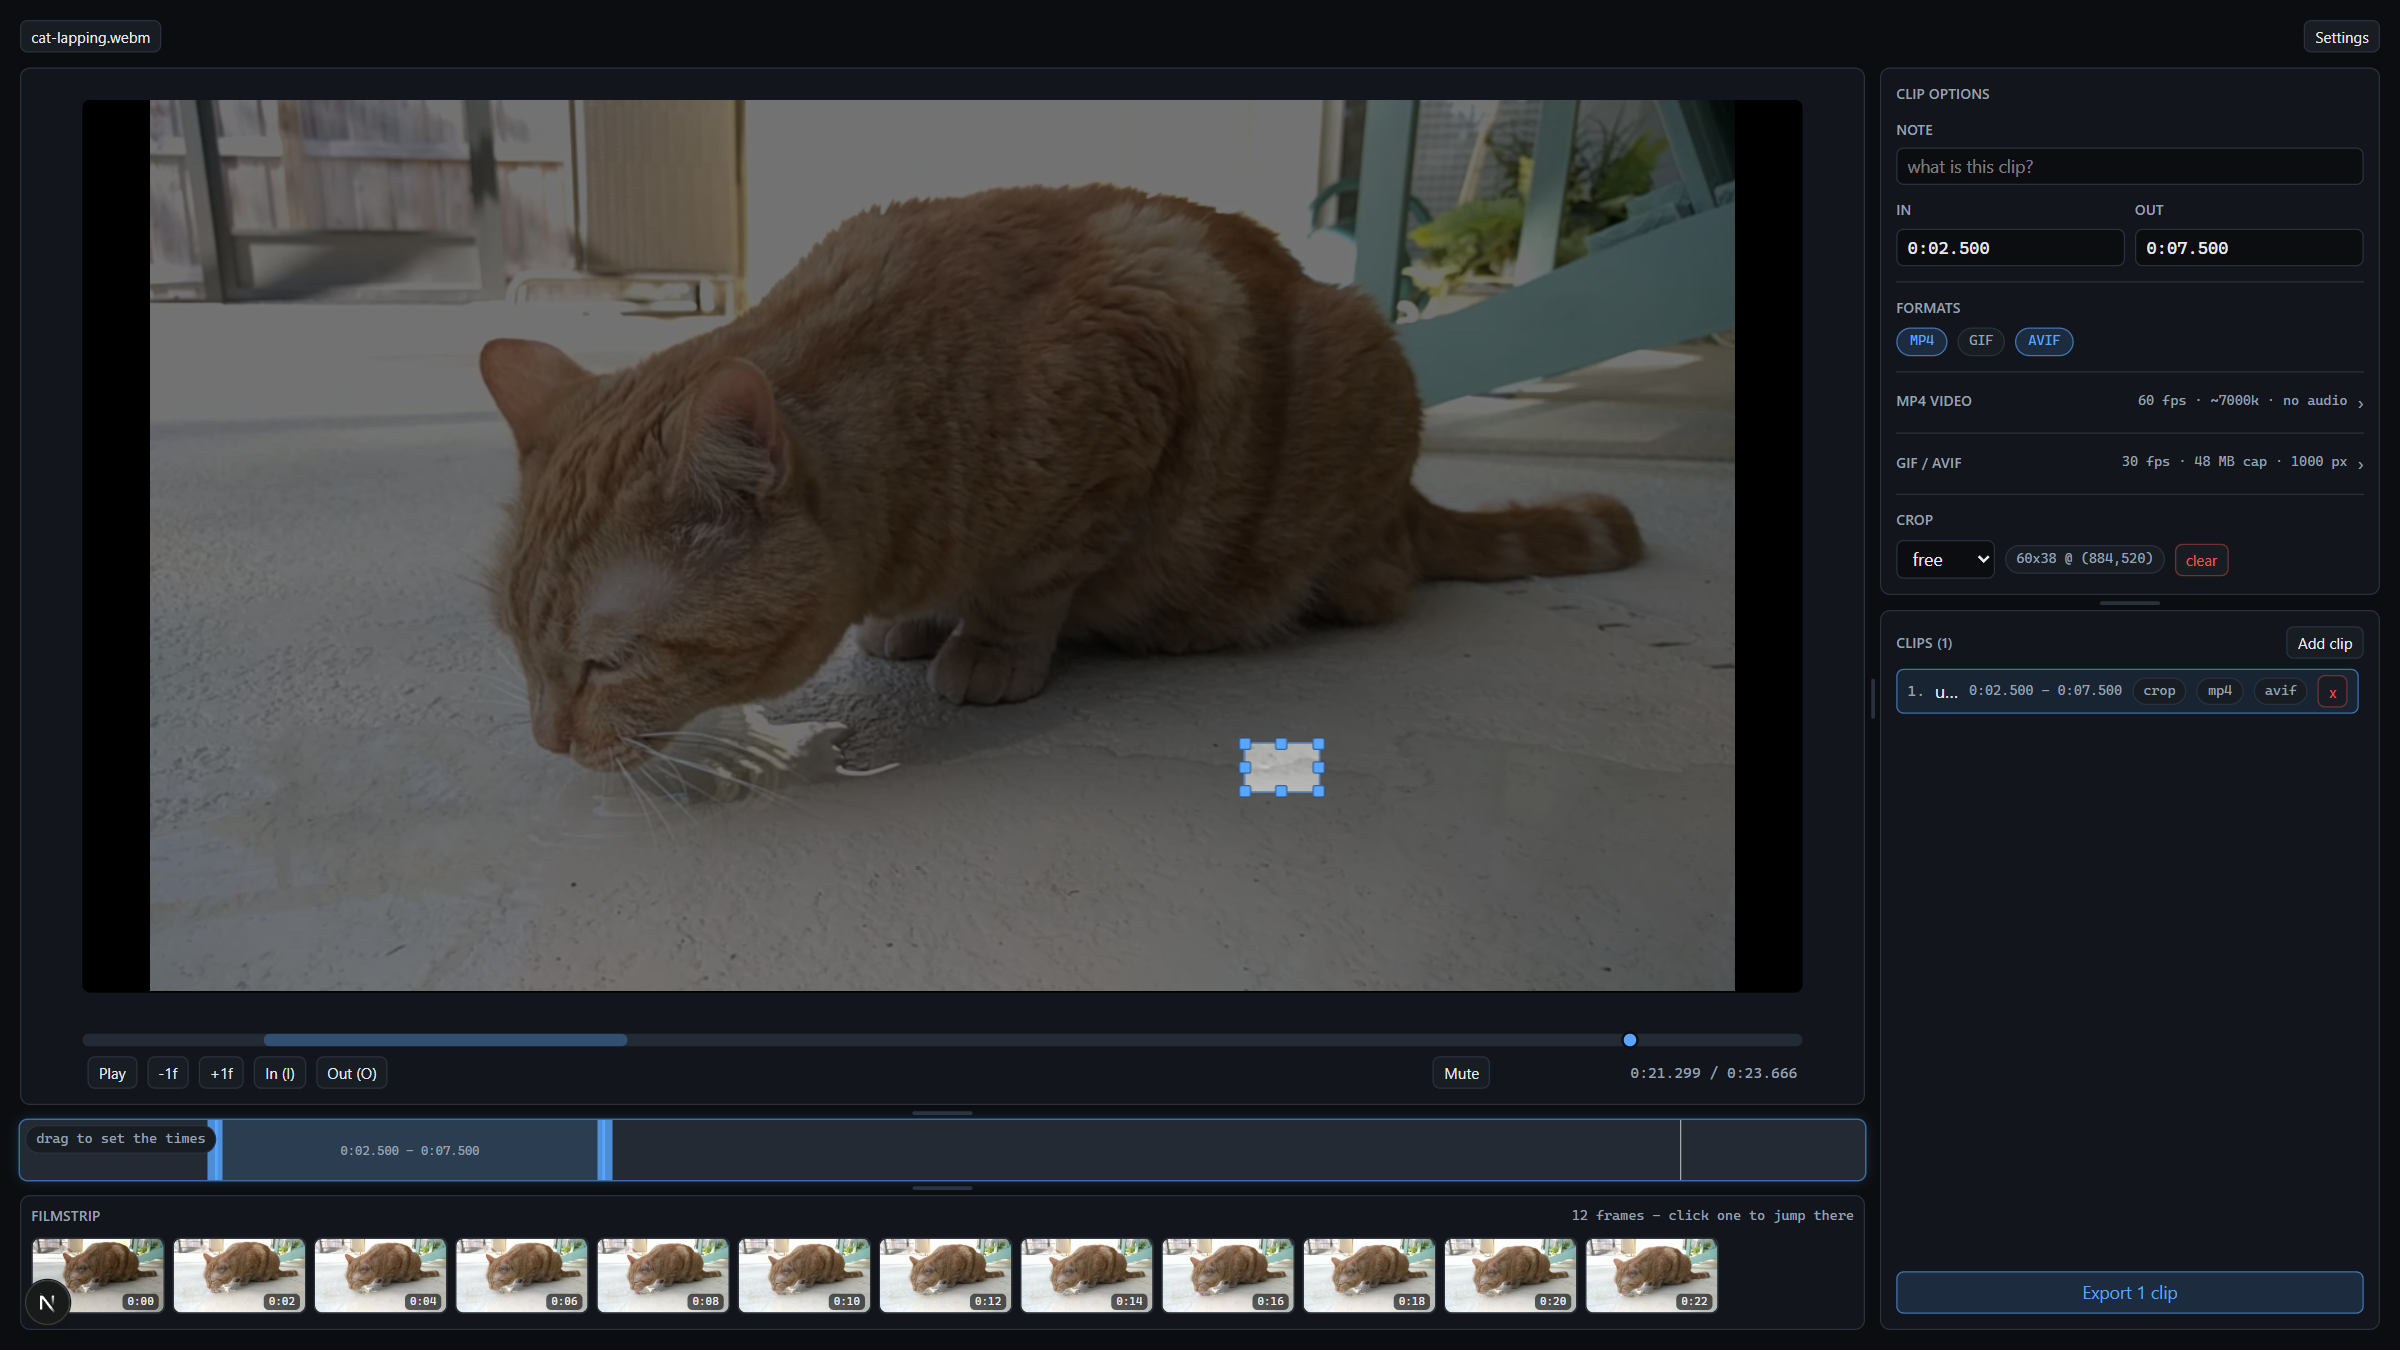
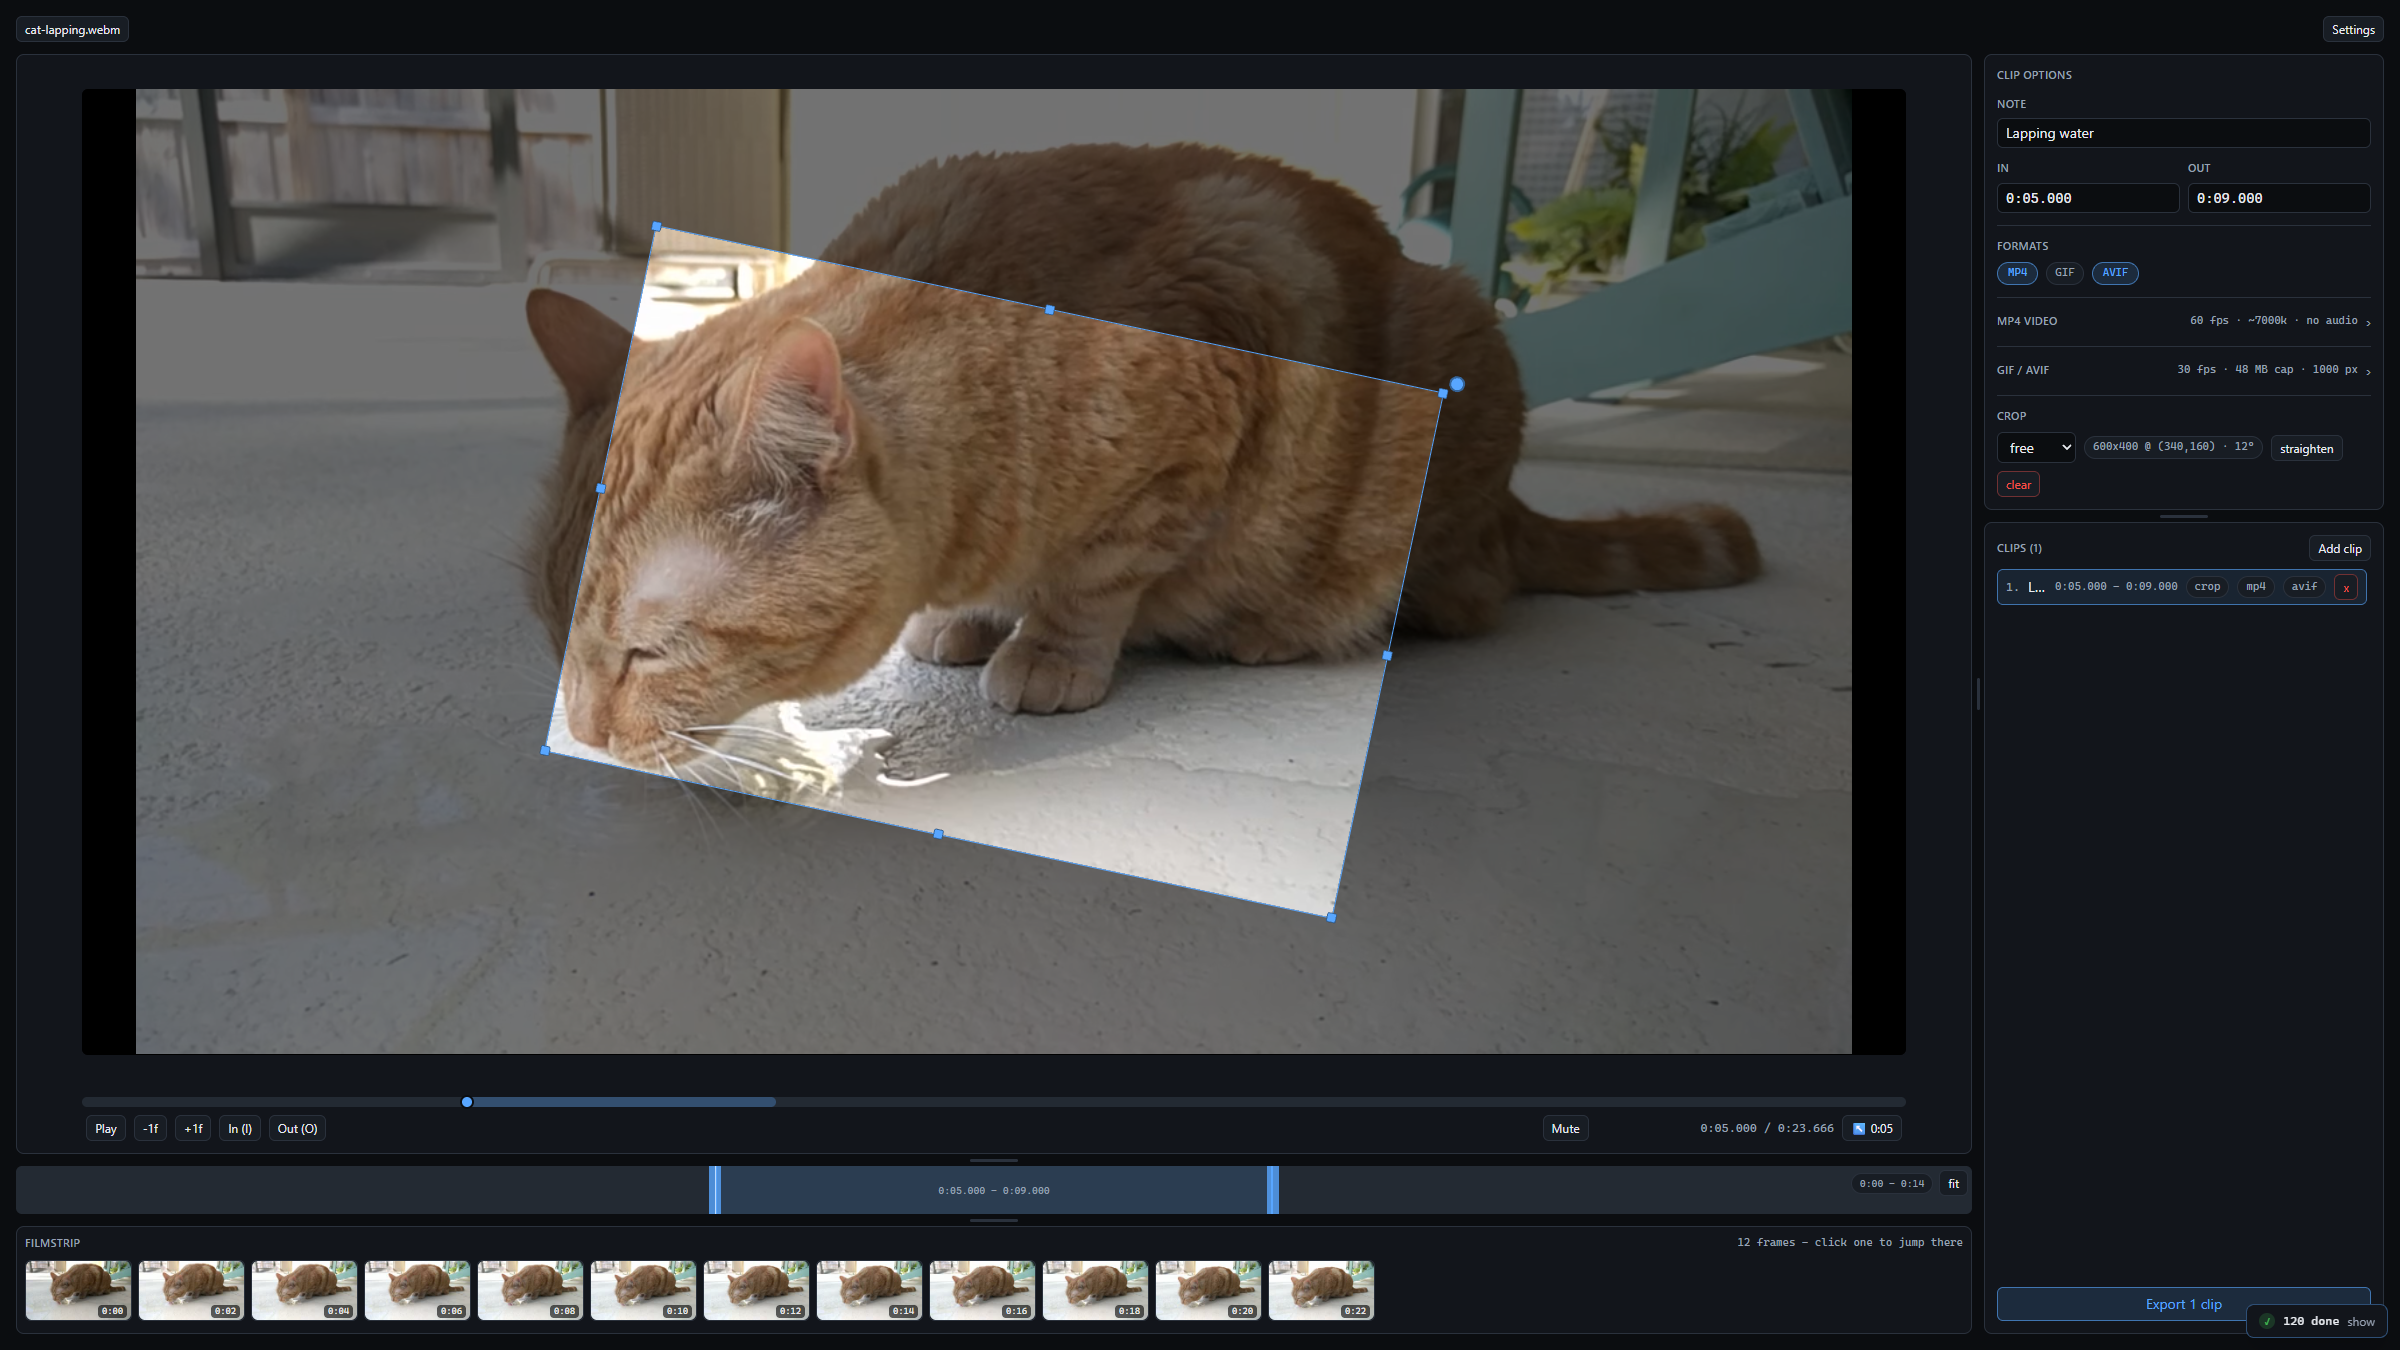
docs: reshoot README screenshots for crop rotation
Reshoot all four README screenshots (2400x1350) with the example cat
video so the crop screenshots show the rotation feature: screenshot-3
is a tilted crop (12 degrees) with the corner handle and angle chip,
screenshot-4 the straightened result. Update the captions to describe
the rotate-then-straighten flow.

Signed-by: omp (basalt qwen3.8-27b)

diff --git a/README.md b/README.md
@@ -29,14 +29,16 @@ mark the in and out points.
 
 ![](docs/screenshot-3-crop.png)
 
-Optional crop: drag a rectangle over the frame - the crop updates live
-while you drag.
+Optional crop: drag a rectangle over the frame, then grab the corner
+handle to rotate it - straighten a tilted shot; the angle shows in the
+crop chip.
 
 ![](docs/screenshot-4-main.png)
 
-The finished clip: the crop box sits over the frame, the timeline holds
-the in/out range, and the clip (with its MP4/AVIF and crop chips) is
-ready in the queue.
+The finished clip: the crop is straightened (tilt it with the corner
+handle, then straighten it back), sits over the frame, the timeline
+holds the in/out range, and the clip (with its MP4/AVIF and crop chips)
+is ready in the queue.
 
 ## How to run
 
